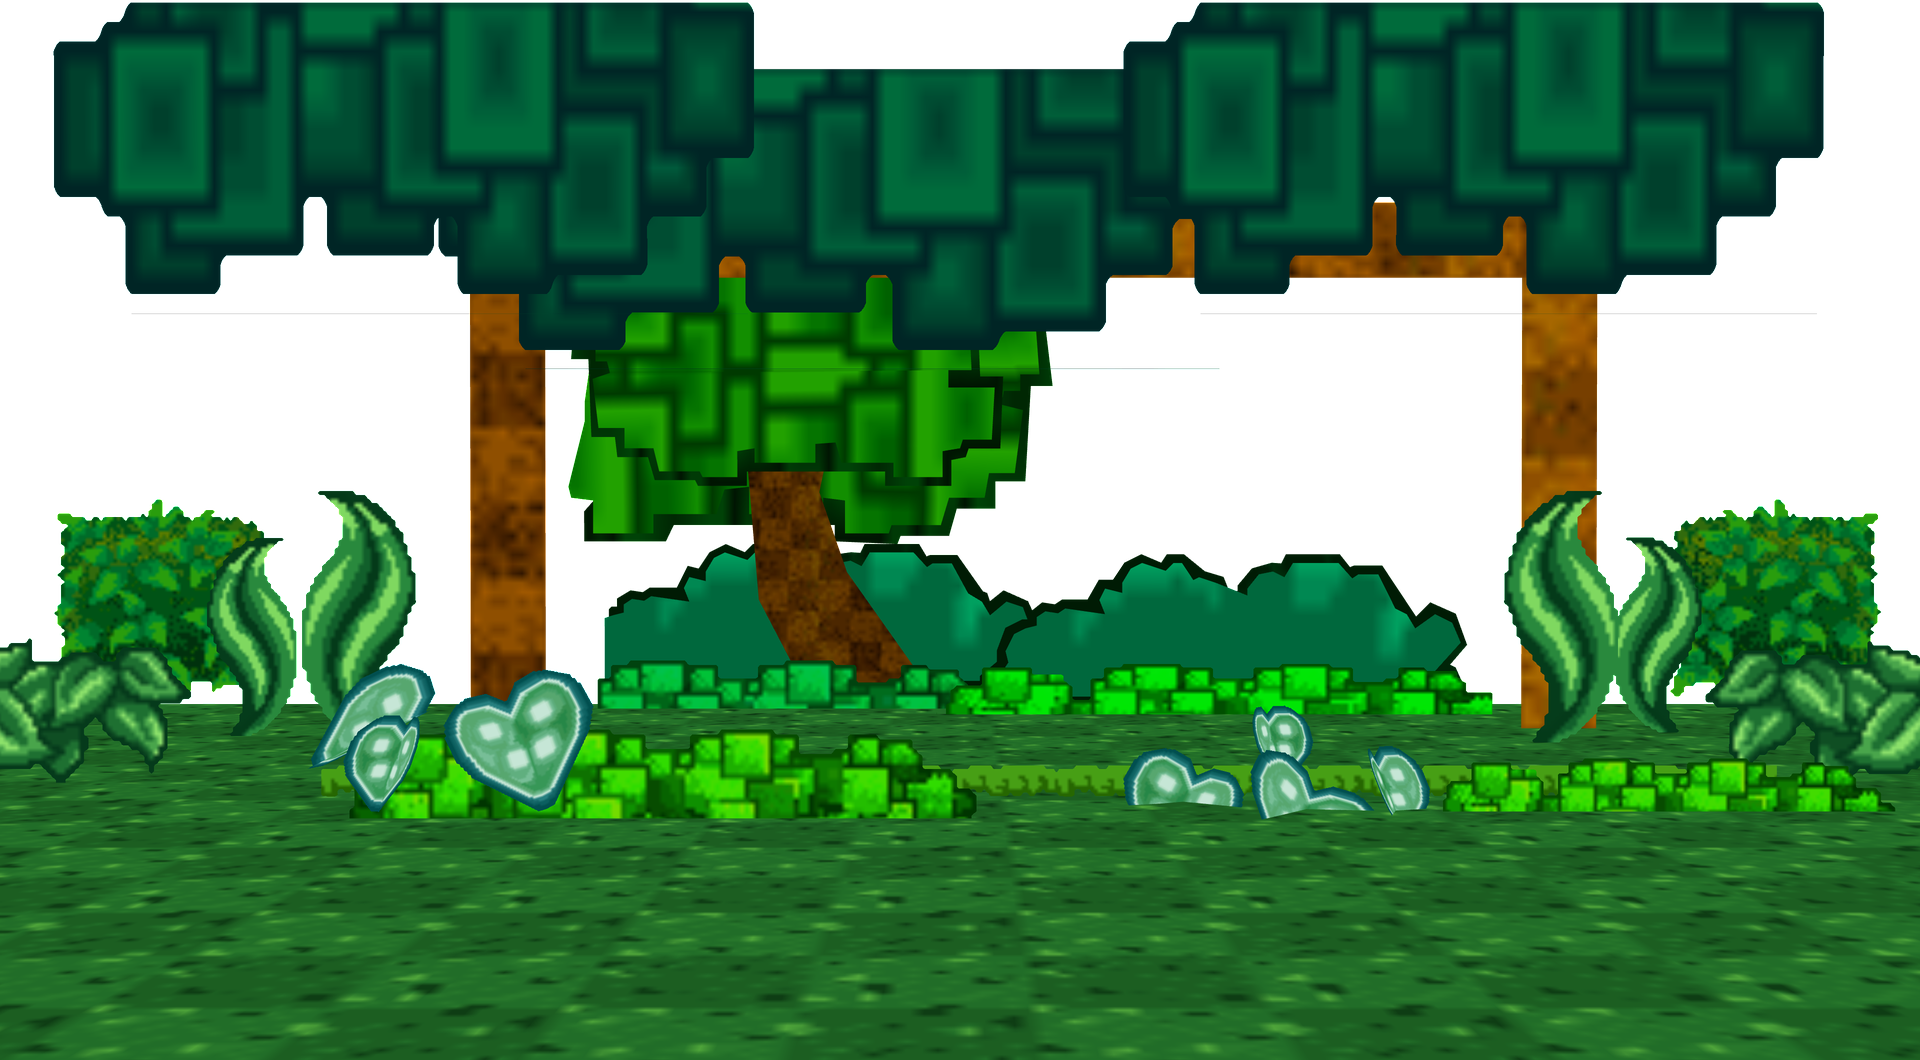
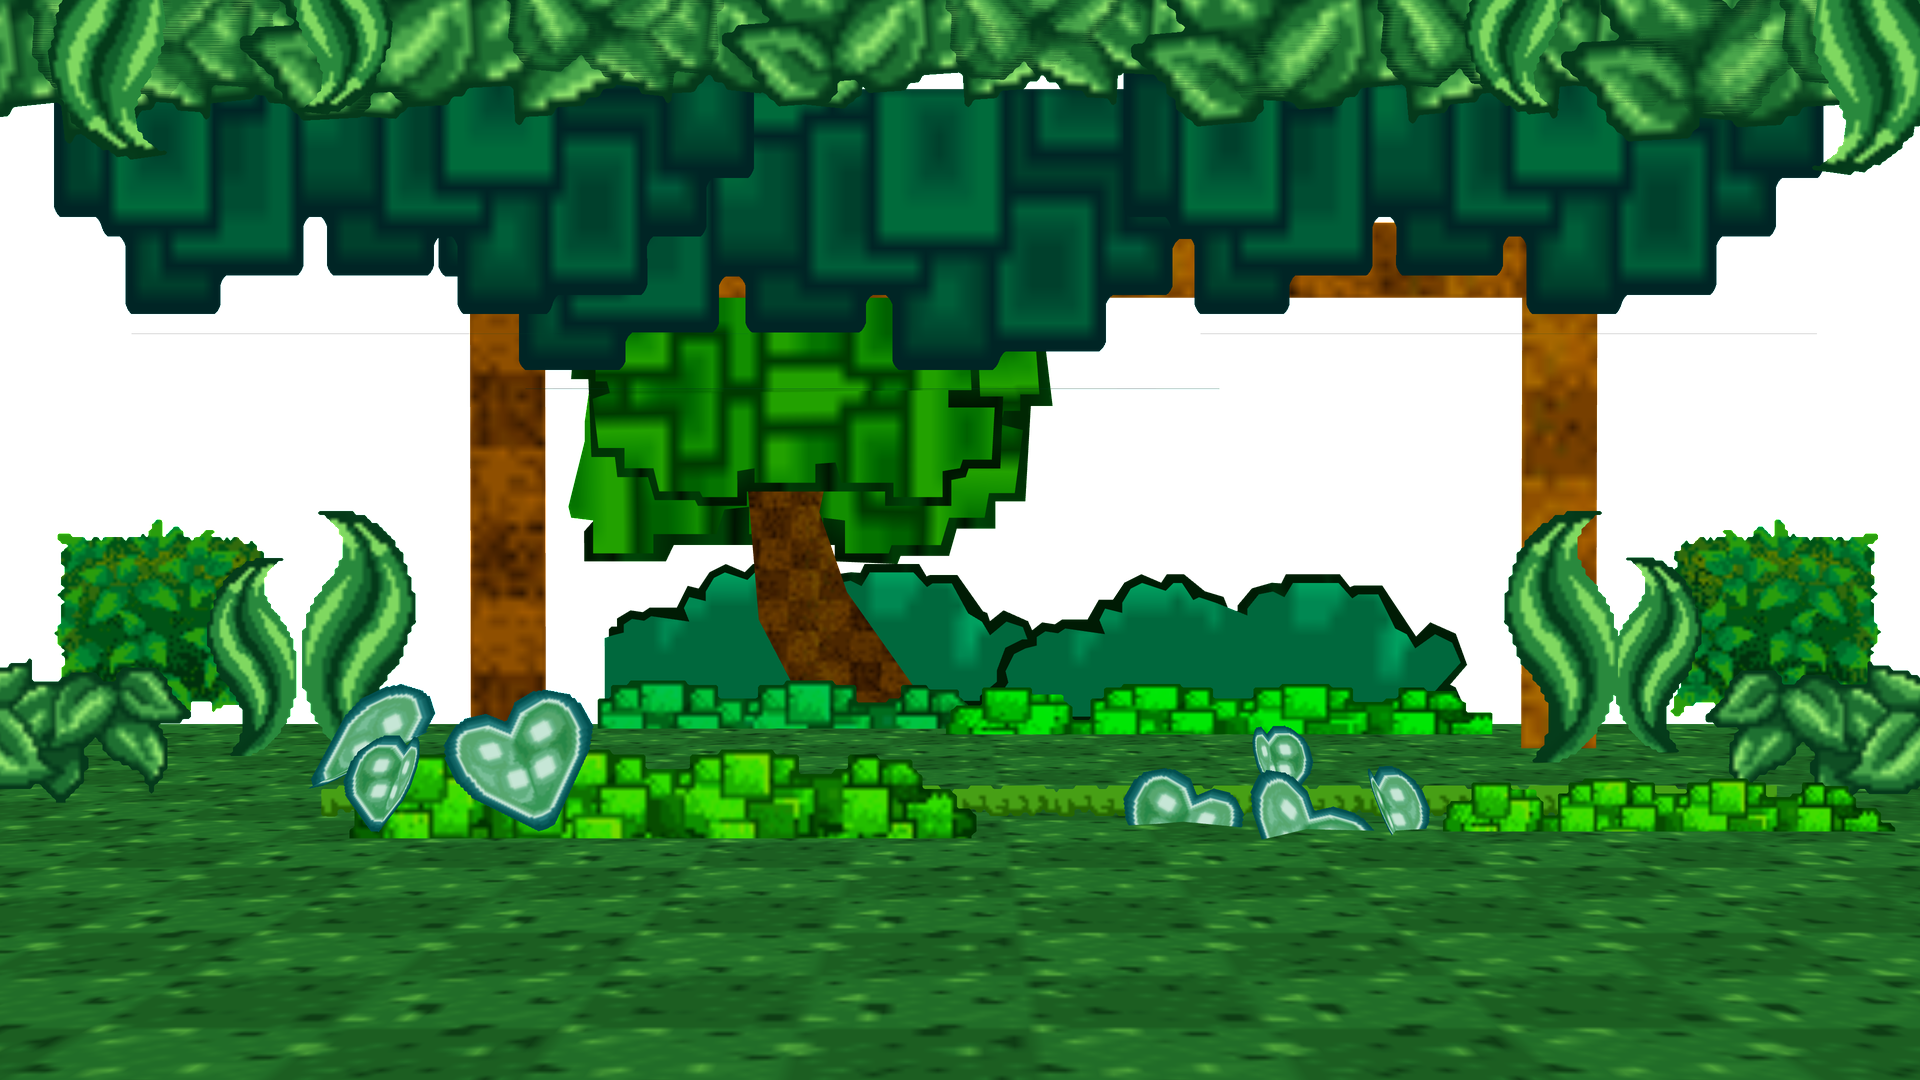
Jade Jungle: a leafy overhang hides the flat canopy tops
The Pleasant Path battle stage canopies end in a flat line near the top
of the screen. Leaf clusters and fronds now hang from above it, in front
of the canopies and behind the Shy Guys.

diff --git a/tools/pm_stage_defs.py b/tools/pm_stage_defs.py
@@ -151,6 +151,37 @@ def sphere(texture, x, z, r, layer="back", **kw):
 FL, FR, FZ = -0.155, 0.105, 0.335
 
 
+def jungle_overhang(leaves, frond):
+    """Leaf clusters and fronds hanging from above the screen (cards turned
+    upside down: they grow downward from `y`), hiding the flat tops of the
+    battle stage canopies. The layout below is drawn for z -0.05 (screen top
+    at y 0.249, x -0.334..0.284); it is scaled toward the camera to z 0.15,
+    in front of the canopies but still behind the Shy Guys."""
+    z = 0.15
+    cx, cy, k = PP_CAM["pos"][0], PP_CAM["pos"][1], (0.6 - z) / 0.65
+
+    def card(texture, x, z, h, y, **kw):  # noqa: the scaled version
+        # the clusters reach 0.012 above the screen so no sky shows through
+        return globals()["card"](texture, cx + (x - cx) * k, z, (h + 0.012) * k,
+                                 y=cy + (y + 0.012 - cy) * k, **kw)
+
+    out = []
+    # (x, top y, height, flip, tilt) of each leaf cluster, left to right
+    for x, y, h, fl, tilt in [
+        (-0.33, 0.268, 0.075, False, 6), (-0.255, 0.262, 0.06, True, -4),
+        (-0.18, 0.27, 0.07, False, 3), (-0.105, 0.262, 0.055, True, -6),
+        (-0.035, 0.266, 0.06, False, 4), (0.035, 0.262, 0.055, True, -3),
+        (0.105, 0.27, 0.07, False, 5), (0.18, 0.262, 0.06, True, -5),
+        (0.25, 0.268, 0.075, False, 3), (0.31, 0.262, 0.06, True, -6),
+    ]:
+        out.append(card(leaves, x, z, h, y=y, flip=fl, rot_z=180 + tilt))
+    # a few fronds dangling lower between the clusters
+    for x, h, fl, tilt in [(-0.3, 0.075, False, 8), (-0.215, 0.06, True, -6),
+                           (0.145, 0.06, False, 6), (0.27, 0.08, True, -8)]:
+        out.append(card(frond, x, z + 0.01, h, y=0.262, flip=fl, rot_z=180 + tilt))
+    return out
+
+
 def stage_defs() -> dict:
     bush = tex("Bush.png")
     big_bush = tex("big bush.png")
@@ -256,7 +287,7 @@ def stage_defs() -> dict:
             card(leaves, -0.27, 0.06, 0.04), card(leaves, 0.21, 0.07, 0.04, flip=True),
             card(leaf, FL, FZ, 0.022, "front", rot_z=20),
             card(leaf, FR, FZ, 0.022, "front", flip=True, rot_z=-20),
-        ],
+        ] + jungle_overhang(leaves, frond),
     }
 
     # Mt. Lavalava: charred rock, a lava river, basalt pillars, burnt trees
